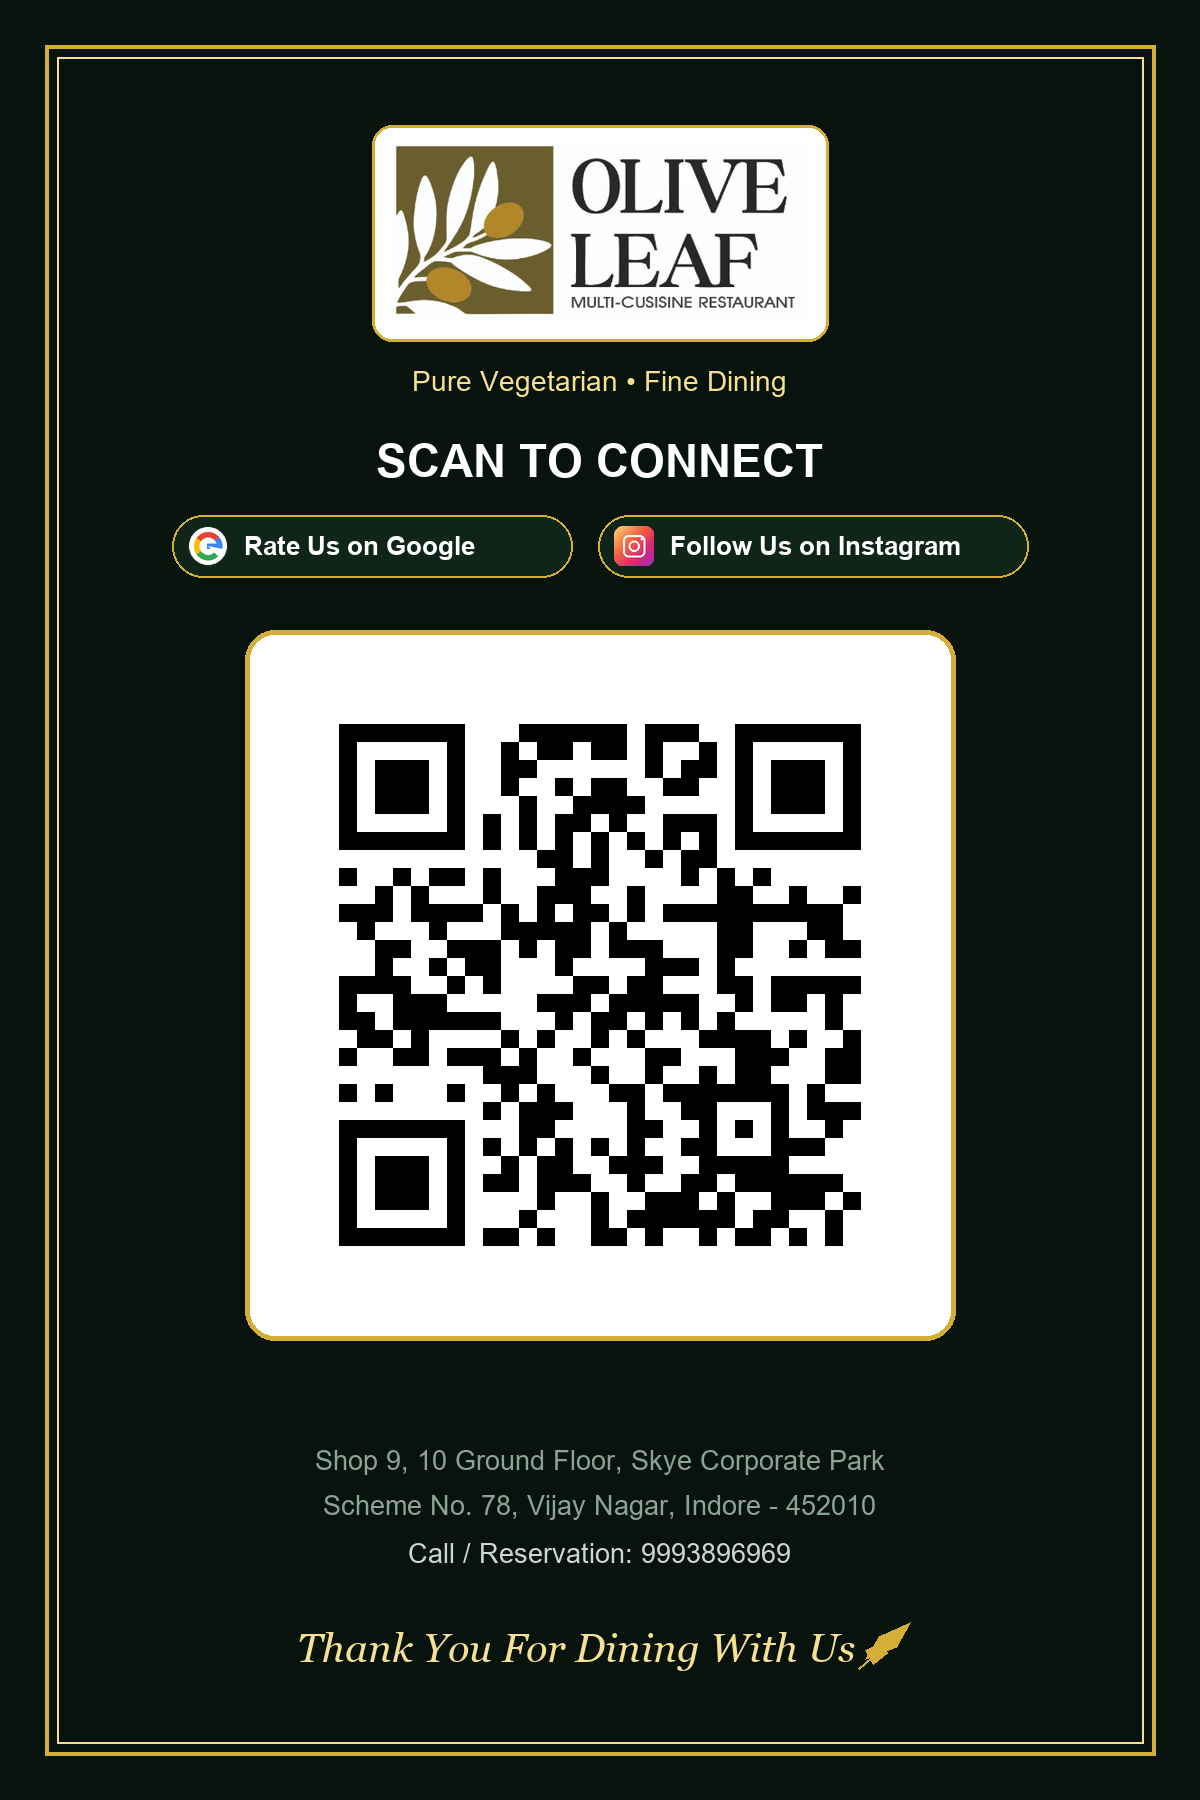
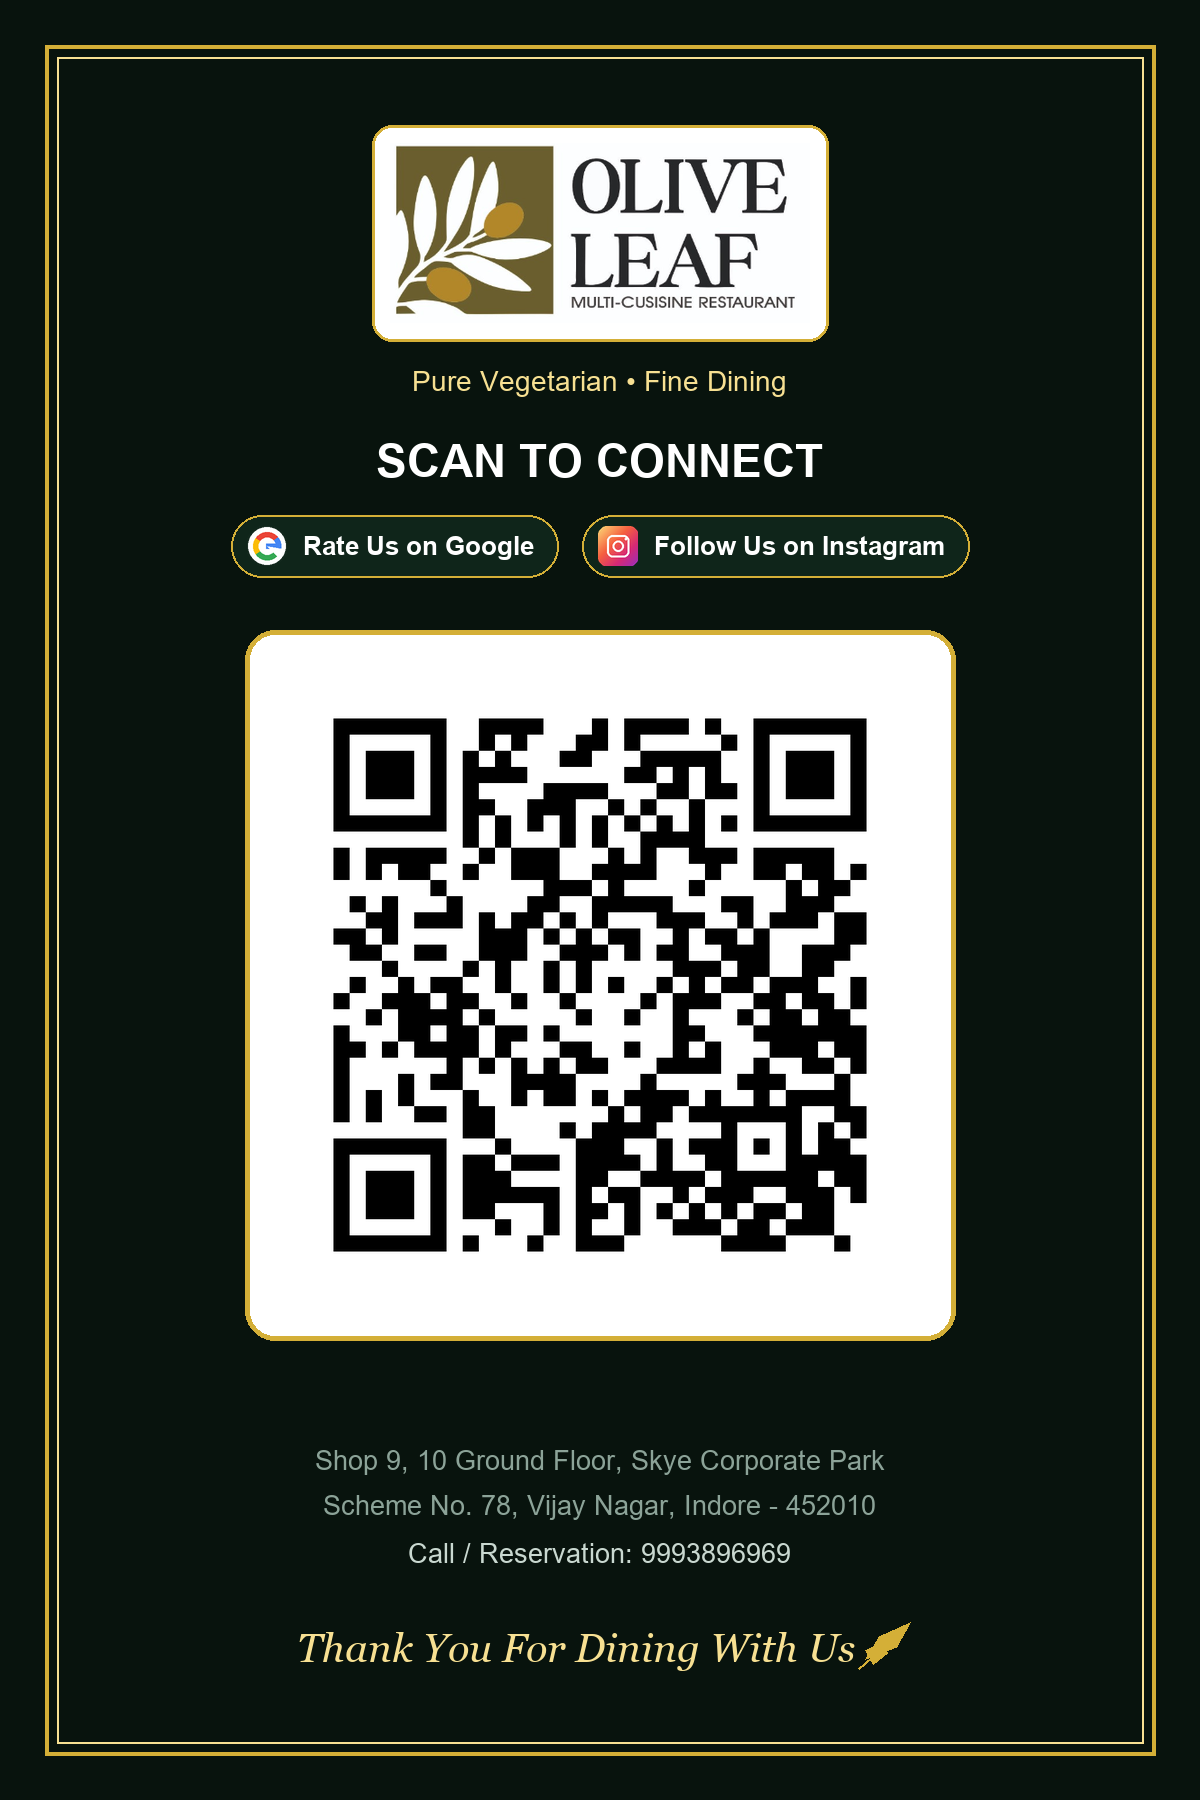
Update QR to fresh URL v3 to force phone browsers to show new changes immediately

Changed region(s): [[0.2775, 0.3733, 0.74, 0.7156], [0.37, 0.28, 0.8017, 0.3422], [0.1542, 0.28, 0.3392, 0.3111]]

diff --git a/config.js b/config.js
@@ -16,12 +16,13 @@ const RESTAURANT_CONFIG = {
 
     // 3. Google Review Link & Luxury Text
     googleReviewLink: "https://share.google/CAuKpe2Po706mPhkI",
-    googleRatingText: "Share Your Experience",
+    googleRatingText: "Rate Us on Google",
     googleRatingSubtext: "Share your experience on Google ⭐⭐⭐⭐⭐",
 
     // 4. Instagram Link & Profile Handle
     instagramLink: "https://www.instagram.com/oliveleafindore?stkn=MXduZGk2ZzU3emZjdw==",
     instagramUsername: "@oliveleafindore",
+    instagramActionText: "Follow Us on Instagram",
     instagramSubtext: "Follow Us on Instagram @oliveleafindore • Food, Reels & Updates",
 
     // 5. Contact & Location Details
@@ -33,8 +34,8 @@ const RESTAURANT_CONFIG = {
     footerThanks: "Thank You For Dining With Us 🌿",
     footerCity: "Crafted with care in Indore",
 
-    // 7. Hosted Landing Page URL
-    landingPageUrl: "https://namangarg-06.github.io/oliveleaf/"
+    // 7. Hosted Landing Page URL (Bypasses old cache)
+    landingPageUrl: "https://namangarg-06.github.io/oliveleaf/?v=3"
 };
 
 if (typeof module !== 'undefined' && module.exports) {

diff --git a/generate_qr.py b/generate_qr.py
@@ -129,10 +129,22 @@ def generate_standee_card(qr_img, cfg):
     ib = draw.textbbox((0, 0), inst_text, font=instruction_font)
     draw.text(((w - (ib[2] - ib[0])) // 2, 435), inst_text, fill="#ffffff", font=instruction_font)
 
-    # 3. Google Logo & Instagram Logo Pill Badges (Generous top & bottom space)
-    g_badge_w, g_badge_h = 400, 62
-    i_badge_w, i_badge_h = 430, 62
-    gap = 26
+    # 3. Google Logo & Instagram Logo Pill Badges (Dynamic from config.js)
+    g_text = cfg.get("googleRatingText", "Rate Us on Google")
+    i_text = cfg.get("instagramActionText", "Follow Us on Instagram")
+
+    # Measure dynamic badge widths
+    gb_box = draw.textbbox((0, 0), g_text, font=badge_font)
+    g_text_w = gb_box[2] - gb_box[0]
+    g_badge_w = g_text_w + 72 + 24
+    g_badge_h = 62
+
+    ib_box = draw.textbbox((0, 0), i_text, font=badge_font)
+    i_text_w = ib_box[2] - ib_box[0]
+    i_badge_w = i_text_w + 72 + 24
+    i_badge_h = 62
+
+    gap = 24
     total_badges_w = g_badge_w + i_badge_w + gap
     start_badges_x = (w - total_badges_w) // 2
     badges_y = 515
@@ -145,7 +157,6 @@ def generate_standee_card(qr_img, cfg):
     if os.path.exists("google_icon.png"):
         g_ico = Image.open("google_icon.png").convert("RGBA").resize((40, 40), Image.Resampling.LANCZOS)
         standee.paste(g_ico, (start_badges_x + 16, badges_y + 11), g_ico)
-    g_text = "Rate Us on Google"
     draw.text((start_badges_x + 72, badges_y + 16), g_text, fill="#ffffff", font=badge_font)
 
     # Badge 2: Instagram
@@ -157,7 +168,6 @@ def generate_standee_card(qr_img, cfg):
     if os.path.exists("instagram_icon.png"):
         i_ico = Image.open("instagram_icon.png").convert("RGBA").resize((40, 40), Image.Resampling.LANCZOS)
         standee.paste(i_ico, (insta_x + 16, badges_y + 11), i_ico)
-    i_text = "Follow Us on Instagram"
     draw.text((insta_x + 72, badges_y + 16), i_text, fill="#ffffff", font=badge_font)
 
     # 4. Main Solid Black QR Code Card (50px spacing below badges)
